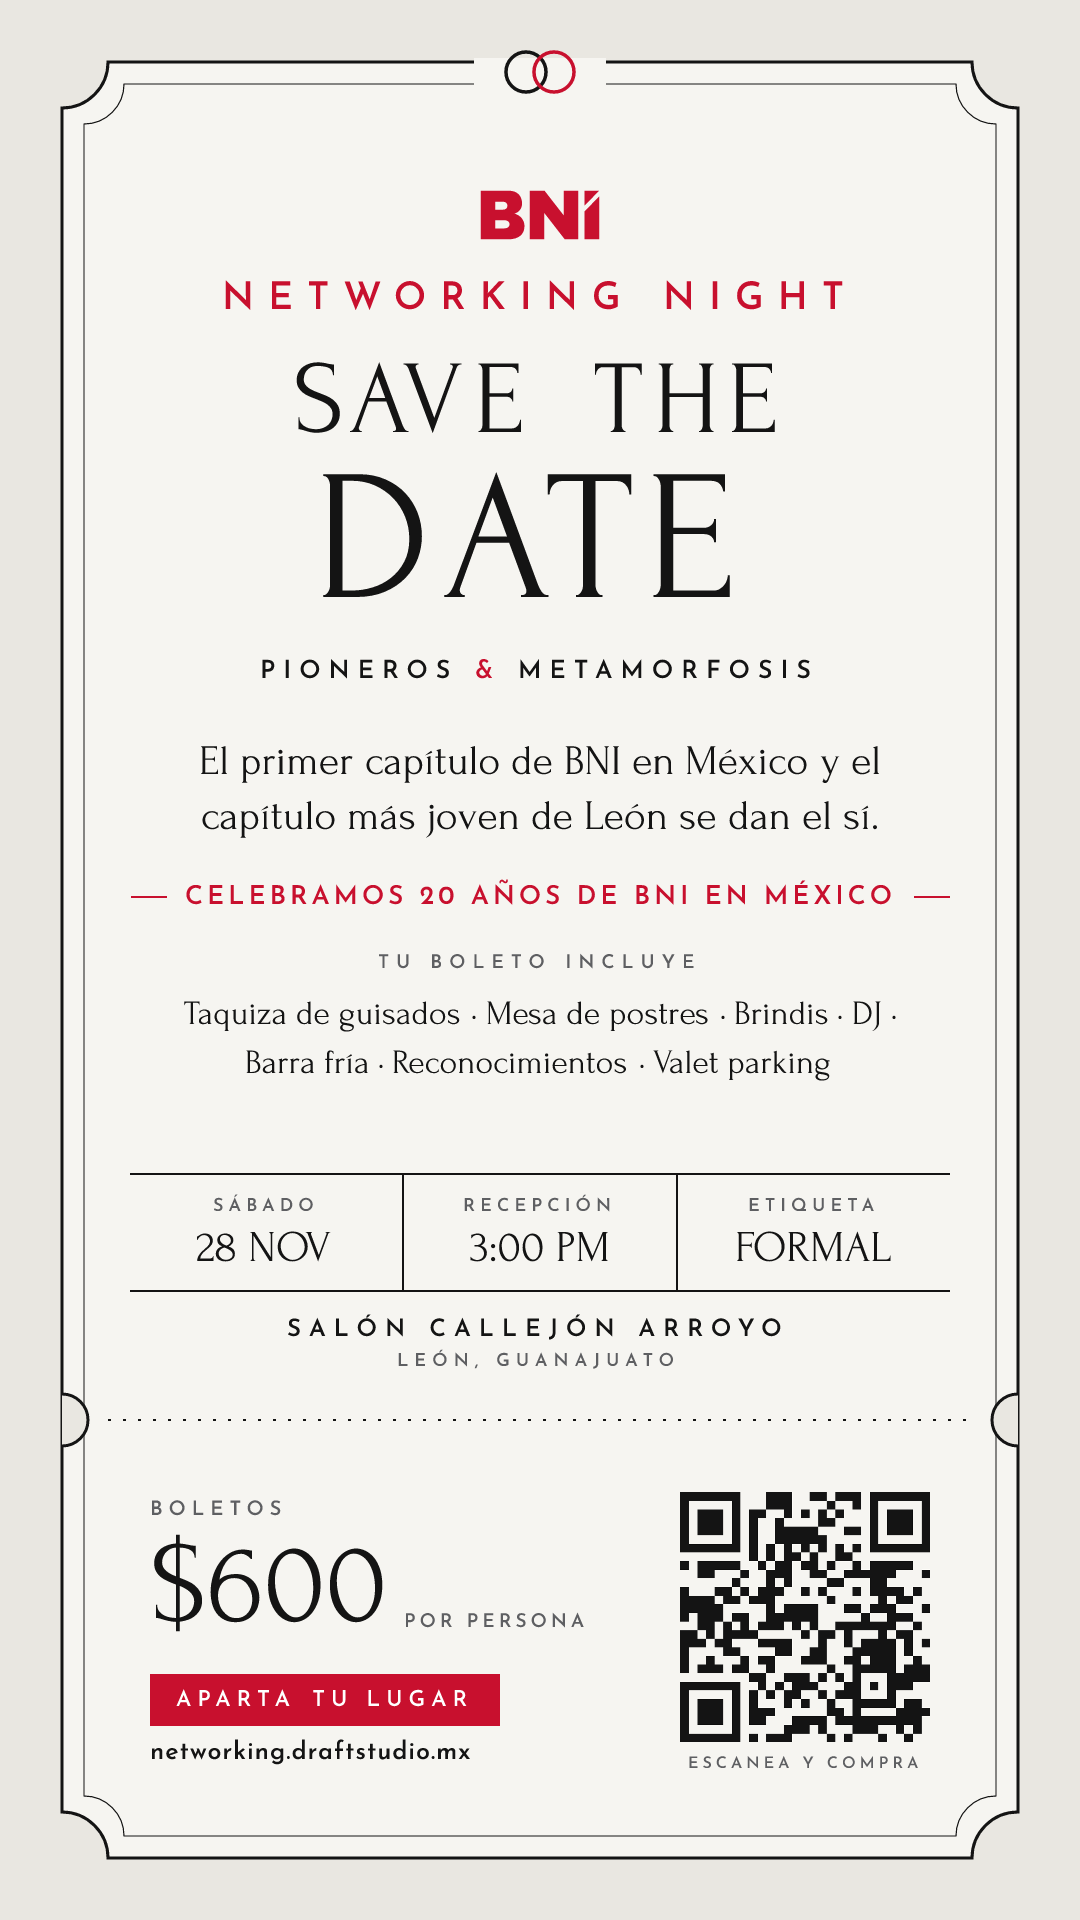
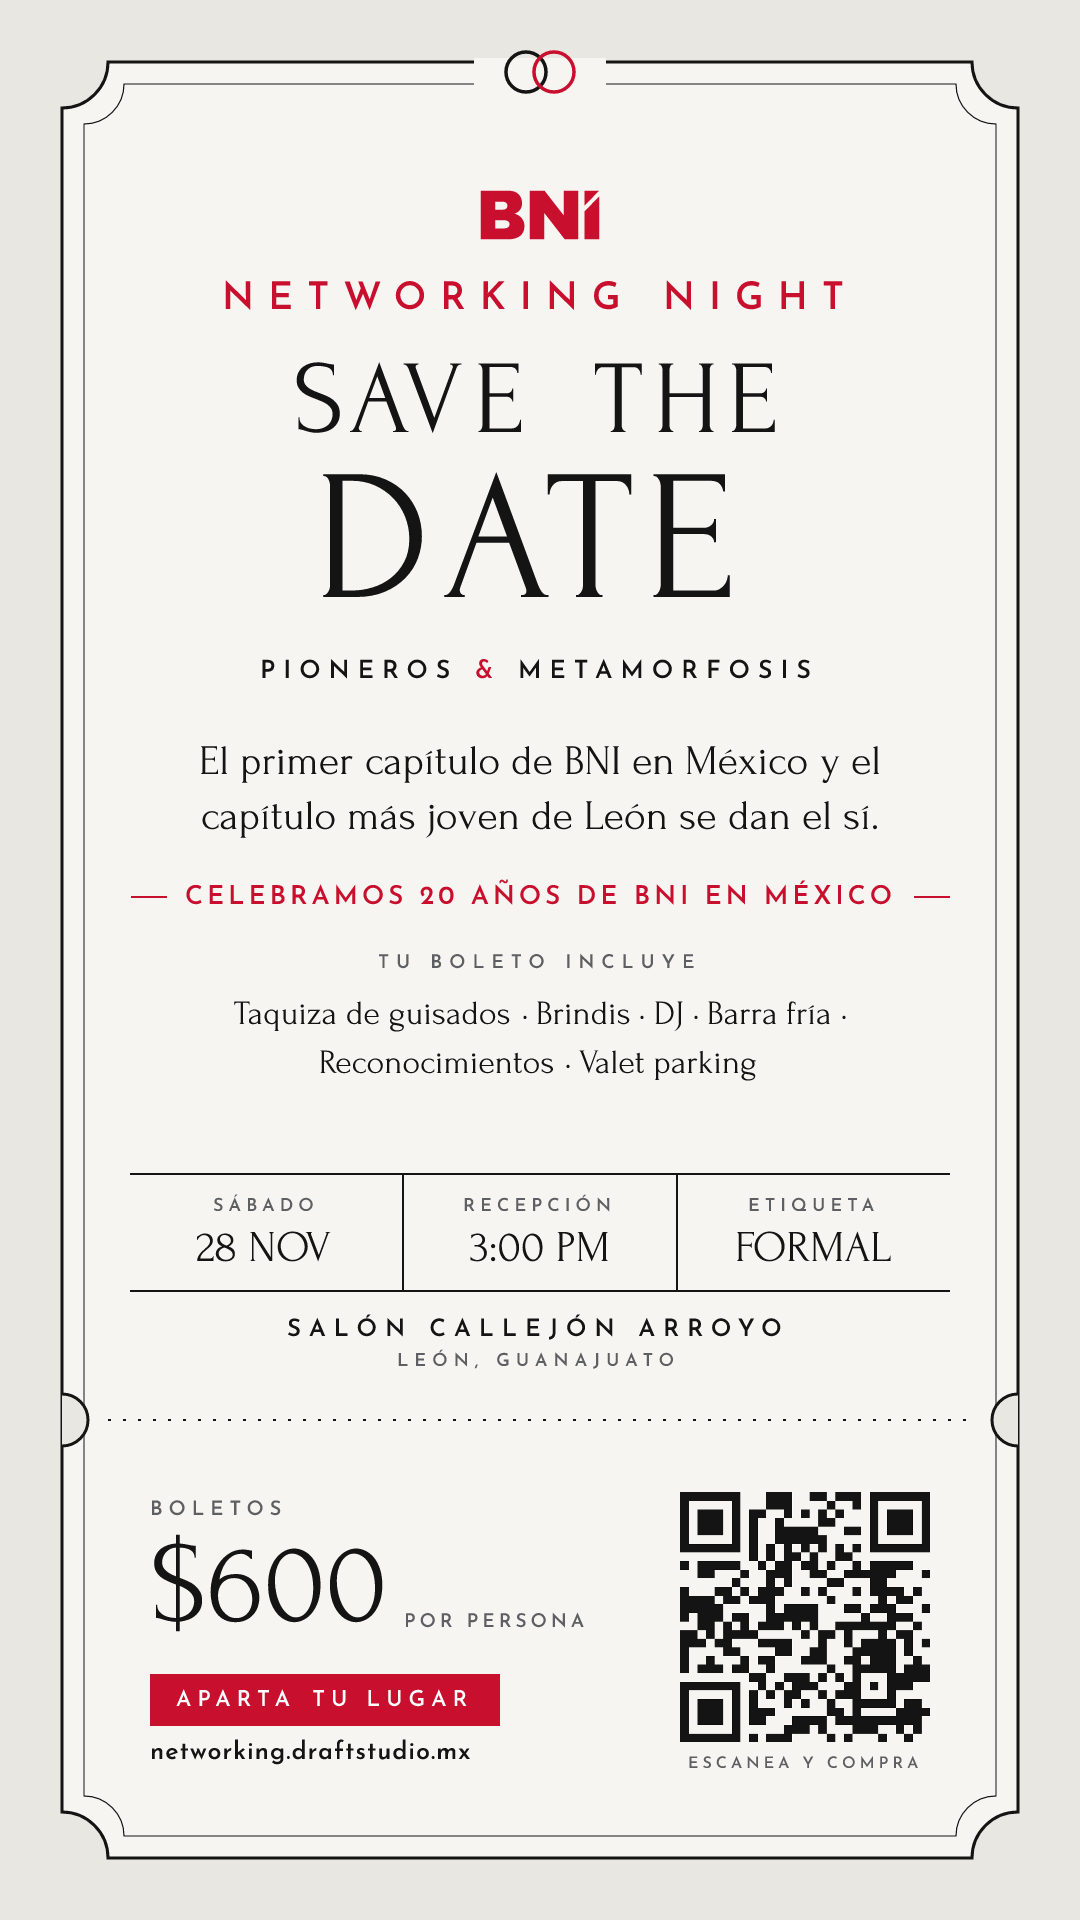
Eliminar postres

Changed region(s): [[0.2139, 0.5, 0.7639, 0.5625]]

diff --git a/src/lib/event.ts b/src/lib/event.ts
@@ -92,19 +92,21 @@ export const WEDDING_VOWS = [
   ["El brindis", "Por 20 años haciendo negocios"],
 ] as const;
 
-export const INCLUDES = [
+// The "soon" slot holds the place of an item still being defined, so the grid stays even;
+// replace it with the real item once it's confirmed.
+export const INCLUDES: readonly { title: string; text: string; soon?: boolean }[] = [
   { title: "Taquiza de guisados", text: "La cena de la boda, para todos los invitados." },
-  { title: "Mesa de postres", text: "El dulce final de la noche." },
+  { title: "Por anunciar", text: "Una sorpresa más que te contaremos muy pronto.", soon: true },
   { title: "Brindis", text: "Para todos los invitados." },
   { title: "DJ", text: "Cinco horas de música." },
   { title: "Barra fría", text: "Refrescos, agua mineral y hielo durante seis horas." },
   { title: "Reconocimientos", text: "A los miembros destacados de los capítulos." },
-] as const;
+];
 
 export const FAQ = [
   {
     q: "¿Qué incluye mi boleto?",
-    a: "Taquiza de guisados, mesa de postres, brindis, DJ, barra fría con refrescos y agua mineral, y la entrega de reconocimientos. Además, el salón cuenta con valet parking. Habrá más sorpresas que anunciaremos pronto.",
+    a: "Taquiza de guisados, brindis, DJ, barra fría con refrescos y agua mineral, y la entrega de reconocimientos. Además, el salón cuenta con valet parking. Habrá más sorpresas que anunciaremos pronto.",
   },
   {
     q: "¿Es una boda de verdad?",

diff --git a/src/app/api/dev/invitacion/route.tsx b/src/app/api/dev/invitacion/route.tsx
@@ -170,7 +170,7 @@ export async function GET(req: Request) {
                   }}
                 >
                   {/* non-breaking spaces keep each item on one line */}
-                  {[...INCLUDES.map((i) => i.title), "Valet parking"].map((t) => t.replace(/ /g, " ")).join("  ·  ")}
+                  {[...INCLUDES.filter((i) => !i.soon).map((i) => i.title), "Valet parking"].map((t) => t.replace(/ /g, " ")).join("  ·  ")}
                 </div>
               </div>
             )}

diff --git a/src/app/page.tsx b/src/app/page.tsx
@@ -184,7 +184,7 @@ export default function Home() {
           <h3 className={`${s.h3center} tr`}>Tu boleto incluye</h3>
           <ul className={s.includes}>
             {INCLUDES.map((it) => (
-              <li key={it.title}>
+              <li key={it.title} data-soon={it.soon || undefined}>
                 <strong>{it.title}</strong>
                 <span className="muted">{it.text}</span>
               </li>

diff --git a/src/app/landing.module.css b/src/app/landing.module.css
@@ -380,6 +380,10 @@
   font-size: 14px;
   line-height: 1.45;
 }
+/* the slot reserved for an item still to be announced */
+.includes li[data-soon] strong {
+  color: var(--red);
+}
 
 /* ---------- la boda ---------- */
 .vowsTable {

diff --git a/PLANEACION.md b/PLANEACION.md
@@ -38,11 +38,11 @@ de evento** (no una invitación de boda literal) con lenguaje y estética de bod
 - **Barra fría** por 6 horas: refrescos, agua mineral y hielo.
 - 7 meseros y carpa exterior.
 - **Brindis** para todos.
-- **Cena estilo taquiza** y **mesa de postres**.
+- **Cena estilo taquiza**. (La mesa de postres se quitó el 27 oct 2026; la sustituye algo por definir.)
 - **Entrega de reconocimientos** a miembros destacados.
 - Más sorpresas y dinámicas (detalles por definir).
 
-> Para el sitio se redacta como experiencia ("cena taquiza, mesa de postres, brindis, DJ, barra fría, valet"), no como lista de proveedor.
+> Para el sitio se redacta como experiencia ("cena taquiza, brindis, DJ, barra fría, valet"), no como lista de proveedor.
 
 ---
 
@@ -54,7 +54,7 @@ de evento** (no una invitación de boda literal) con lenguaje y estética de bod
    - Metamorfosis: https://metamorfosis.draftstudio.mx/
 3. **Nuestra historia**: línea de tiempo (ver sección 3).
 4. **La recepción**: fecha, hora, dirección, mapa, valet y botón "Agregar al calendario".
-5. **Qué incluye**: cena taquiza, mesa de postres, brindis, DJ, barra fría, valet, reconocimientos.
+5. **Qué incluye**: cena taquiza, brindis, DJ, barra fría, valet, reconocimientos.
 6. **Programa**: por definir. Mientras tanto, la sección no se muestra o dice "Programa próximamente".
 7. **Código de vestimenta**: formal de boda.
 8. **Mesa de regalos**: en lugar de regalos, cada capítulo comparte su **referencia ideal** y los **aliados que busca**. El mejor regalo es conectar a un novio con alguien de tu red. Contenido por definir (ver radar).

diff --git a/PRODUCT.md b/PRODUCT.md
@@ -39,7 +39,7 @@ Es la "boda" entre **Pioneros**, el primer capítulo de BNI en todo México (20 
 - Máximo 10 boletos por compra; nombre obligatorio por asistente; OXXO con ficha de 24 h, solo hasta el 26 de noviembre; venta con tarjeta abierta hasta el día del evento.
 - Membresía en el formulario: miembro de BNI (con el nombre de su capítulo) o no miembro.
 - La venta no tiene límite de boletos (el salón tiene mobiliario para 200, solo como referencia interna).
-- El boleto incluye: cena taquiza, mesa de postres, brindis, DJ, barra fría, valet y entrega de reconocimientos (detalle en PLANEACION.md).
+- El boleto incluye: cena taquiza, brindis, DJ, barra fría, valet y entrega de reconocimientos (detalle en PLANEACION.md).
 - Al referirse a Metamorfosis: "el capítulo más joven de León". **Nunca mencionar su antigüedad en años o meses.**
 - Por definir: agenda, quiénes son los "novios", padrinos, fotos, fecha de cierre de la venta.
 
